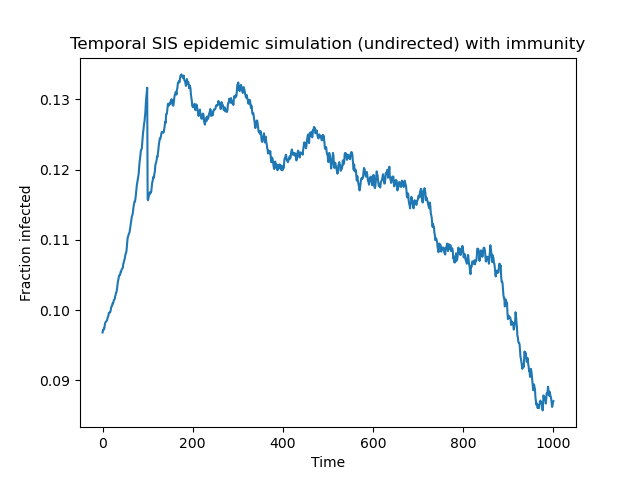
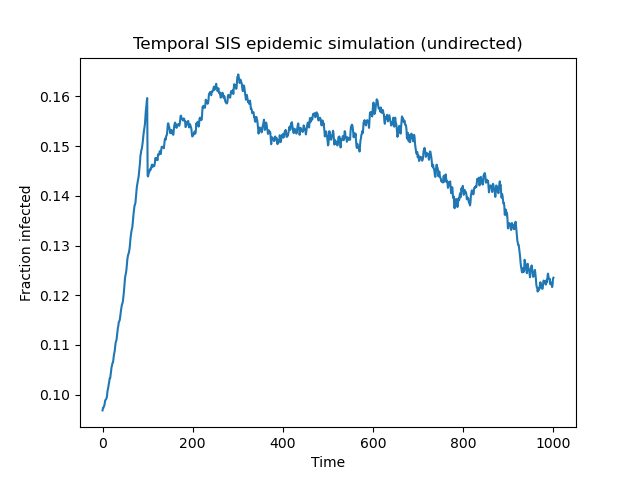
wip

diff --git a/simulation_with_time_window.py b/simulation_with_time_window.py
@@ -9,6 +9,7 @@ import matplotlib.pyplot as plt
 def simulate_SIS(
     g: gt.Graph, start_infection_rate=0.1, days_infected=100, max_steps=None, beta=0.9, start=0
 ):
+    """Simulates SIS epidemic with infections starting at time `start` and infecting for `days_infected` days."""
     edge_time = g.edge_properties["time"]
     max_time = int(max(edge_time[e] for e in g.edges()))
     if max_steps is not None:
@@ -21,23 +22,27 @@ def simulate_SIS(
             active_vertices.add(e.source())
             active_vertices.add(e.target())
 
-    # 0: susceptible, 1: infected, 2: initially infected
+    # 0: susceptible, 1: infected
     state = g.new_vertex_property("int")
+    cumulative_infected = g.new_vertex_property("int")
     last_infected = g.new_vertex_property("int")
     activated = g.new_vertex_property("bool")
 
     for v in g.vertices():
         if v in active_vertices and random.random() < start_infection_rate:
-            state[v] = 2
+            state[v] = 1
             last_infected[v] = start
             activated[v] = False
+            cumulative_infected[v] = 1
         else:
             state[v] = 0
             last_infected[v] = -days_infected
             activated[v] = True
+            cumulative_infected[v] = 0
 
     infected_fraction = []
-    for t in trange(start, max_time + 1):
+    range = trange(start, max_time + 1)
+    for t in range:
         active_edges = [e for e in g.edges() if edge_time[e] == t]
 
         # print(active_edges)
@@ -62,11 +67,13 @@ def simulate_SIS(
                 if random.random() < beta:
                     # print(f"Infection from {u} to {v} at time {t}")
                     new_state[v] = 1
+                    cumulative_infected[v] += 1
                     last_infected[v] = t
             elif state[v] > 0 and state[u] == 0:
                 if random.random() < beta:
                     # print(f"Infection from {v} to {u} at time {t}")
                     new_state[u] = 1
+                    cumulative_infected[u] += 1
                     last_infected[u] = t
 
         state = new_state
@@ -74,9 +81,14 @@ def simulate_SIS(
             frac = np.mean([(1 if state[v] > 0 else 0) for v in active_vertices])
         else:
             frac = 0
-        print(frac)
+        range.set_postfix({"Infected fraction": frac})
         infected_fraction.append(frac)
-    return infected_fraction
+    # Link to cumulative infected property for further analysis
+    g.vertex_properties["cumulative_infected"] = cumulative_infected
+
+
+
+    return infected_fraction, g
 
 
 def main():
@@ -86,7 +98,7 @@ def main():
     print(g)
     print(g.edge_properties)
     print(g.vertex_properties)
-    sim = simulate_SIS(g, max_steps=1000, start=1000)
+    sim, g = simulate_SIS(g, max_steps=100, start=1000)
 
     plt.plot(sim)
     plt.xlabel("Time")
